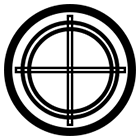
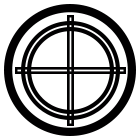
Se pusieron los botones blancos en el nivel dos

Changed region(s): [[0.0857, 0.0857, 0.9143, 0.9143]]

diff --git a/core/src/mx/jfml/Nivel.java b/core/src/mx/jfml/Nivel.java
@@ -270,11 +270,10 @@ public abstract class Nivel extends Pantalla {
         orthographicCameraHUD.update();
         viewportHUD = new StretchViewport(ANCHO,ALTO,orthographicCameraHUD);
         HUD = new Stage(viewportHUD);
-        crearBotones();
         crearPad();
     }
 
-    private void crearBotones() {
+    protected void crearBotones(Texture texturaBotonDisparar, Texture texturaBotonSaltar) {
         ImageButton botonPausa = new ImageButton(new TextureRegionDrawable(new Texture("BotonesHUD/pausa.png")));
         botonPausa.setPosition(0,ALTO-botonPausa.getHeight());
         botonPausa.addListener(new ClickListener(){
@@ -288,7 +287,7 @@ public abstract class Nivel extends Pantalla {
         });
         HUD.addActor(botonPausa);
 
-        ImageButton botonDisparar = new ImageButton(new TextureRegionDrawable(new Texture("BotonesHUD/botonDisparar.png")));
+        ImageButton botonDisparar = new ImageButton(new TextureRegionDrawable(texturaBotonDisparar));
         botonDisparar.setPosition(ANCHO-botonDisparar.getWidth()-30,135);
         botonDisparar.addListener(new ClickListener(){
             @Override
@@ -312,7 +311,7 @@ public abstract class Nivel extends Pantalla {
         });
         HUD.addActor(botonDisparar);
 
-        ImageButton botonSaltar = new ImageButton(new TextureRegionDrawable(new Texture("BotonesHUD/botonSaltar.png")));
+        ImageButton botonSaltar = new ImageButton(new TextureRegionDrawable(texturaBotonSaltar));
         botonSaltar.setPosition(ANCHO-botonDisparar.getWidth()-150,25);
         botonSaltar.addListener(new ClickListener(){
             @Override

diff --git a/core/src/mx/jfml/PantallaJuegoNivelDos.java b/core/src/mx/jfml/PantallaJuegoNivelDos.java
@@ -44,6 +44,7 @@ public class PantallaJuegoNivelDos extends Nivel {
         cargarTexturaBala("Proyectiles/bala1.png");
         Gdx.input.setInputProcessor(HUD);
         definirParedes();
+        crearBotones(new Texture("BotonesHUD/botonDispararNivelDos.png"),new Texture("BotonesHUD/botonSaltarNivelDos.png"));
     }
 
     private void crearEnemigos(){

diff --git a/core/src/mx/jfml/PantallaJuegoNivelTres.java b/core/src/mx/jfml/PantallaJuegoNivelTres.java
@@ -40,6 +40,7 @@ public class PantallaJuegoNivelTres extends Nivel {
         cargarTexturaBala("Proyectiles/bala1.png");
         Gdx.input.setInputProcessor(HUD);
         definirParedes();
+        crearBotones(new Texture("BotonesHUD/botonDisparar.png"),new Texture("BotonesHUD/botonSaltar.png"));
     }
 
     private void crearEnemigos(){

diff --git a/core/src/mx/jfml/PantallaJuegoNivelUno.java b/core/src/mx/jfml/PantallaJuegoNivelUno.java
@@ -44,6 +44,7 @@ public class PantallaJuegoNivelUno extends Nivel {
         cargarTexturaBala("Proyectiles/bala1.png");
         Gdx.input.setInputProcessor(HUD);
         definirParedes();
+        crearBotones(new Texture("BotonesHUD/botonDisparar.png"),new Texture("BotonesHUD/botonSaltar.png"));
     }
 
     private void crearEnemigos(){
